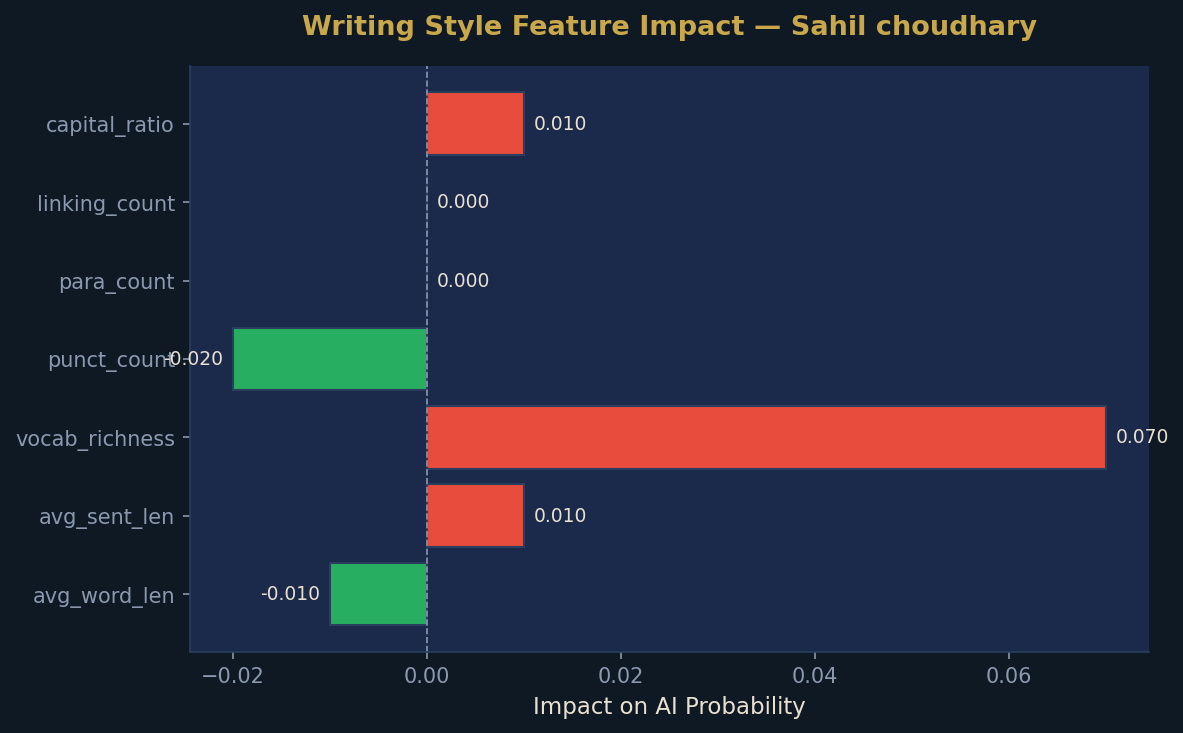
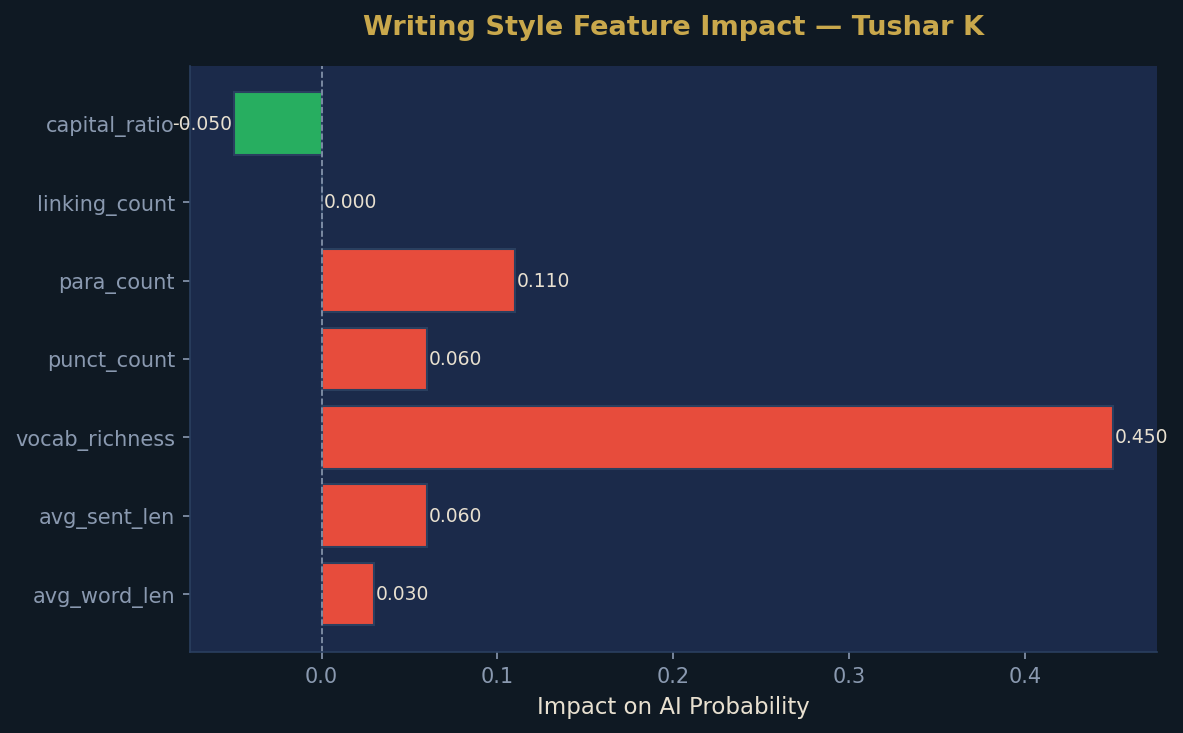
Made some changes in the logic of module 3.

diff --git a/app/dashboard.py b/app/dashboard.py
@@ -224,23 +224,38 @@ def predict_module2(text):
     return round(prob[1] * 100, 2)
 
 def predict_module3(G1, G2, G3, absences, studytime, failures):
-    baseline          = (G1 + G2) / 2
-    grade_jump        = G3 - baseline
-    grade_consistency = abs(G1 - G2)
-    features          = [[G1, G2, grade_jump, grade_consistency,
-                          absences, studytime, failures]]
-    scaled            = m3_scaler.transform(features)
-    prob              = m3_model.predict_proba(scaled)[0]
-    anomaly_prob      = prob[1]
+    baseline = (G1 + G2) / 2
+    grade_jump = G3 - baseline
+
+    # new features (same as training)
+    trend = G2 - G1
+    consistency = abs(G1 - G2)
+    avg_score = (G1 + G2) / 2
+
+    features = [[
+        G1, G2,
+        trend,
+        consistency,
+        avg_score,
+        absences,
+        studytime,
+        failures
+    ]]
+
+    scaled = m3_scaler.transform(features)
+    prob = m3_model.predict_proba(scaled)[0]
+    anomaly_prob = prob[1]
+
+    # keep your existing logic (no change)
     if grade_jump < 2:
         label = "Normal"
     elif grade_jump >= 7:
         label = "Anomaly"
     elif 3 <= grade_jump < 7:
-        label = "Anomaly" if (failures > 0 or absences > 8
-                              or anomaly_prob > 0.25) else "Normal"
+        label = "Anomaly" if (failures > 0 or absences > 8 or anomaly_prob > 0.25) else "Normal"
     else:
         label = "Normal"
+
     return round(anomaly_prob * 100, 2), label, round(grade_jump, 2)
 
 def get_risk(composite):
